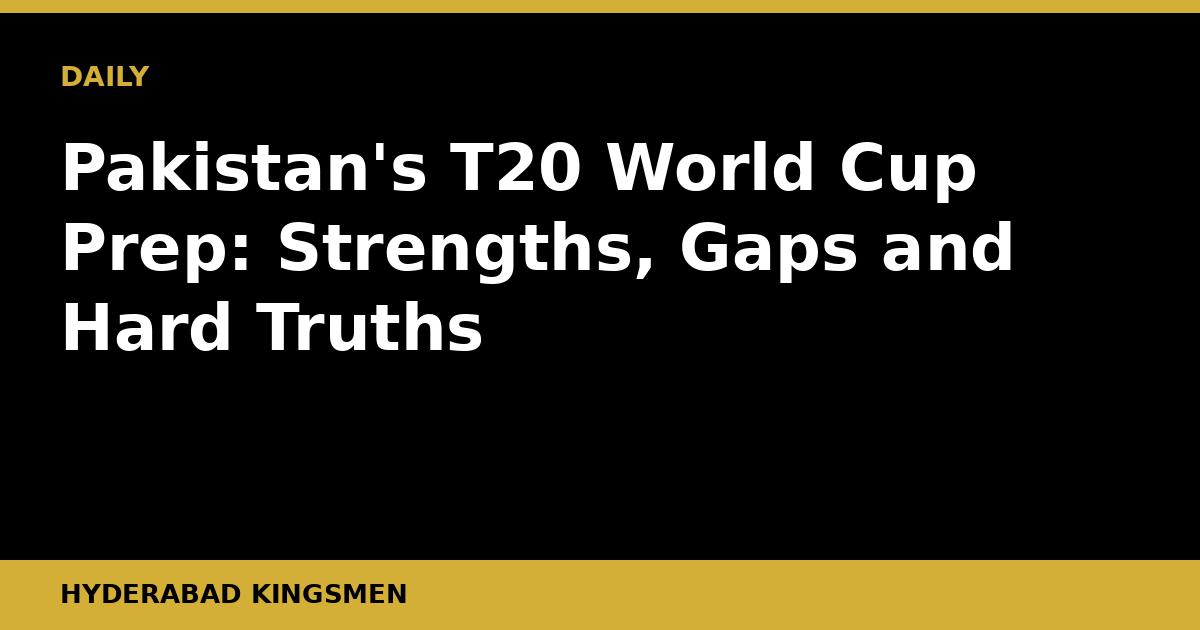
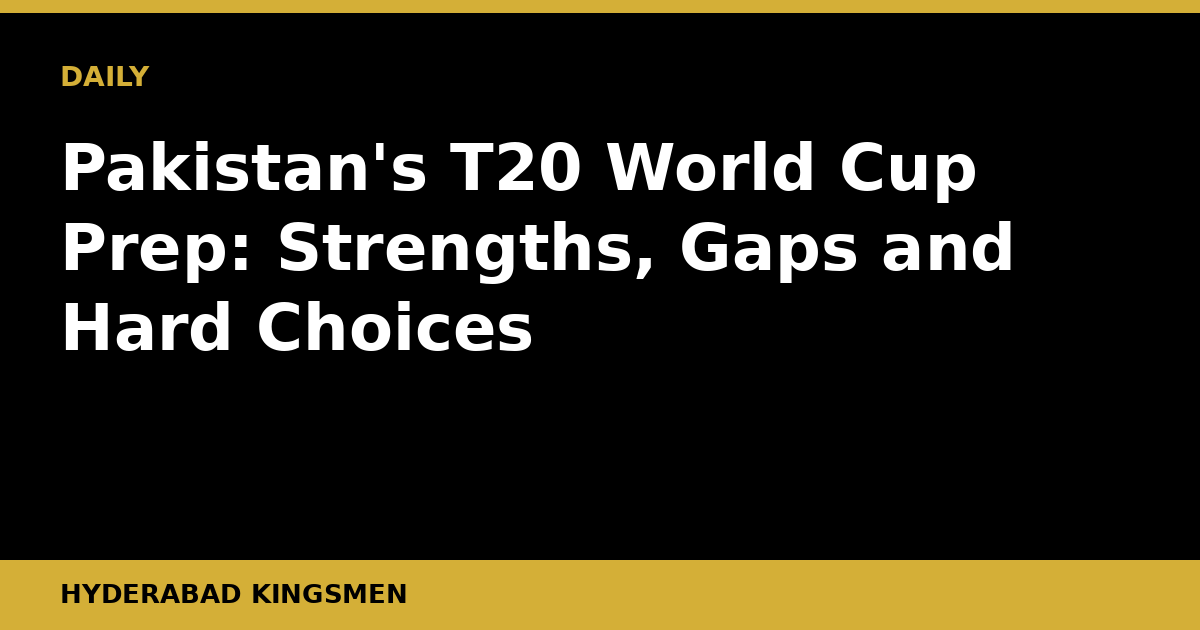
Daily post 2026-10-03

Changed region(s): [[0.2158, 0.4825, 0.4625, 0.573]]

diff --git a/content/posts/pakistan-t20-world-cup-squad-strengths-weaknesses.md b/content/posts/pakistan-t20-world-cup-squad-strengths-weaknesses.md
@@ -1,55 +1,53 @@
 ---
-title: "Pakistan's T20 World Cup Prep: Strengths, Gaps and Hard Truths"
+title: "Pakistan's T20 World Cup Prep: Strengths, Gaps and Hard Choices"
 slug: "pakistan-t20-world-cup-squad-strengths-weaknesses"
-date: "2026-07-23T04:11:13+05:00"
+date: "2026-10-03T05:57:17+05:00"
 draft: false
-description: "Pakistan's T20 World Cup preparations are underway, but real questions remain about batting depth, death bowling and strategic clarity. Here is an honest assessment."
+description: "Pakistan's T20 World Cup preparations are underway but serious questions remain about the batting middle order, the death bowling unit, and whether the selectors have the nerve to make difficult calls."
 banner: "/banners/pakistan-t20-world-cup-squad-strengths-weaknesses.png"
 kicker: "ANALYSIS"
 author: "Hyderabad Kingsmen"
 translationKey: "pakistan-t20-world-cup-squad-strengths-weaknesses"
-tags: ["pakistan-cricket", "t20-world-cup", "babar-azam", "pakistan-squad-analysis", "pakistan-t20i", "shaheen-shah-afridi", "psl"]
+tags: ["pakistan-cricket", "t20-world-cup", "pakistan-t20", "babar-azam", "squad-analysis", "shaheen-shah-afridi", "psl"]
 categories: ["Analysis"]
 ---
 
-Pakistan's next T20 World Cup cycle has begun in earnest, and the national side carries genuine match-winning potential in certain departments. Yet honest analysis reveals structural problems that could cost them when it matters most. The selectors and team management have decisions to make, and they need to make them now, not in the week before a knockout game.
+Pakistan's T20 World Cup cycle is moving forward, but not without turbulence. The selectors are assembling pieces, the players are putting in shifts across PSL and domestic cricket, but the picture that emerges is one of genuine promise sitting uncomfortably alongside structural problems that have persisted for years.
 
-## The Angle: Talent Is Not the Problem
+## The Real Story: Same Old Questions, Shrinking Time
 
-Pakistan have never lacked talent. The problem, recurring across decades and formats, is translating that talent into a coherent, consistent team identity. The T20 format punishes hesitation and rewards clarity. Right now, Pakistan look like a side still working out who they are.
+Every World Cup preparation cycle for Pakistan follows a familiar script. Hopes are high early, promising performers emerge in the PSL, and then somewhere between domestic optimism and international execution, things unravel. The question now is whether this cycle breaks that pattern, or repeats it.
 
-Babar Azam's return to white-ball leadership after last year's turbulence adds a layer of complexity. He remains one of the most technically complete batters in the world, and his presence at the top of the order gives the side an anchor. But anchors in T20 cricket need to double as accelerators. The debate around Babar's strike rate in the powerplay is not going away, and Pakistan cannot afford to keep sidestepping it with selection loyalty.
+The honest answer is: it depends on which Pakistan shows up.
 
-## Strengths Worth Acknowledging
+## What Pakistan Has Going for It
 
-**The pace attack** is the clearest asset. Shaheen Shah Afridi, when fit and firing, is among the best new-ball operators in global T20 cricket. Naseem Shah brings genuine pace and has grown into the shortest format. Haris Rauf's death-over experience at the PSL and franchise level globally gives Pakistan a credible three-pronged seam attack, something not every top-eight side can claim.
+At the top of the order, Pakistan remain formidable. Babar Azam's form may have drawn criticism in recent months for a perceived lack of aggression in T20 cricket, but his ability to anchor an innings and construct a total is still among the best in the world. Mohammad Rizwan continues to be one of the most consistent run-scorers in T20 internationals globally, and the two together provide a foundation most sides would envy.
 
-**Mohammad Rizwan** behind the stumps continues to be a player of serious value. His ability to rotate strike and manufacture runs in the middle overs, even against the best spin attacks, is underrated. Rizwan is not flashy, but he wins matches quietly.
+The bowling attack, at its best, is genuinely frightening. Shaheen Shah Afridi, when fully fit and in rhythm, is a match-winner in the powerplay and at death. Haris Rauf brings pace and courage in equal measure. Naseem Shah, still remarkably young, is developing into a complete fast bowling option. On pitches with even a hint of assistance, this trio can dismantle batting line-ups.
 
-**The spin department** has depth. Shadab Khan brings leg-spin and lower-order hitting. Abrar Ahmed is a genuine wicket-taker who has troubled top batters internationally. If selected and trusted, this pair can complement each other well across different phases.
+The PSL has also been doing its job as a talent conveyor. Spinners, lower-order hitting options, and young pace bowlers are emerging. The talent pool is not the problem.
 
-## Weaknesses That Cannot Be Ignored
+## The Weaknesses Pakistan Cannot Afford to Ignore
 
-**Batting depth beyond the top four** remains Pakistan's most persistent T20 vulnerability. When Babar, Rizwan, Fakhar Zaman and one other contributor fail together, the lower order too often collapses under pressure. There is no five or six who consistently wins matches from tricky positions. The PSL offers a window to identify such a player, and selectors must be watching closely.
+The middle order remains Pakistan's most stubborn structural problem. The position between numbers four and six has been a revolving door for years. Players are blooded, dropped, recalled, and discarded before they find their feet. Azam Khan offers explosive power but consistency at international level has eluded him. Iftikhar Ahmed is experienced but generates legitimate debate about whether his ceiling is high enough for a World Cup campaign.
 
-**Death bowling** is a concern. Shaheen and Rauf are proven, but an injury to either changes the equation dramatically. Pakistan's backup death options have been exposed in recent series. The side needs a fourth seamer capable of executing yorkers and cutters at the death, not just filling an XI slot.
+What Pakistan desperately needs is a finisher who can win games from position 40 for 4. They have not reliably had one in years, and the World Cup schedule punishes that absence brutally.
 
-**Fielding** continues to leak runs. In close T20 knockout games, a dropped catch or a misfield at the boundary can be the difference between a semifinal and an early flight home. Pakistan have improved marginally, but the standard is still well below the top sides in world cricket.
+Death bowling is the second serious concern. Shaheen can be expensive when his radar is off. Haris Rauf, for all his bravery, has had tournaments where opposition batters have clocked him. Pakistan need a proper death bowling backup plan, not just the hope that their frontline options fire on the same night.
 
-**Tactical flexibility** is perhaps the softest but most important gap. The best T20 teams adapt mid-game. Pakistan's in-game strategic adjustments have been reactive rather than proactive too many times in recent memory.
+The fielding, let us be honest, remains below the standard of the top four T20 sides in the world. Dropped catches and misfields have cost Pakistan in knockout cricket before. There is no evidence yet that this has been addressed as a systemic priority.
 
-## What It Means Going Forward
+## What the Selectors Must Decide
 
-The selection panel must use every bilateral series and PSL outing between now and the tournament as a genuine audition, not a loyalty exercise. Fixed combinations that protect reputation ahead of match-day performance will cost Pakistan later.
+The selection panel faces choices that require nerve. Does Babar Azam bat at number three, where he is most comfortable, or does Pakistan find a way to get a more explosive option at the top to maximise powerplay scoring? That conversation has been going on for three years. It needs a resolution, not another deferral.
 
-The opening partnership needs a firm decision. Babar and Rizwan at the top is a proven but contested combination. If they stay together, the team structure around them must account for the need to accelerate from ball one. If Pakistan experiment with alternatives, they must do it early enough to build actual partnerships, not familiarity on paper.
+The spin department also needs a clear pecking order. Shadab Khan's all-round value is obvious, but who backs him up? Abrar Ahmed has shown he can be a mystery weapon at international level, but his role and workload management need clarity before a major tournament, not during one.
 
-For the pace attack, managing Shaheen's workload through the PSL and early bilateral cricket is not optional. Bowling him into the ground before a World Cup would be a familiar and painful mistake.
+The selectors must also commit to a core group now and give those players a sustained run. Chopping and changing eleven men on the eve of a World Cup is a pattern Pakistan must resist.
 
 ## What to Watch Next
 
-The PSL is the immediate proving ground. Performances under pressure, particularly from middle-order batters and backup seamers, will tell the real story. Watch which players show the temperament to win matches in the final three overs, on both sides of the game.
+The upcoming T20I series against visiting sides before the World Cup will be the critical laboratory. Watch whether the middle order is given specific roles and allowed to grow into them. Watch whether the death bowling combinations are being tested deliberately rather than reactively. Watch Babar Azam's strike rate in the powerplay, because that number will tell you more about Pakistan's readiness than any press conference will.
 
-Bilateral T20I series in the lead-up to the tournament will also be critical for combination-building. The management cannot simply announce a squad two weeks before the World Cup and hope chemistry follows. That is not preparation. That is hope dressed as planning.
-
-Pakistan have the pieces. The question, as always, is whether the people in charge have the clarity and the courage to put them together properly.
+Pakistan have the raw material to win a T20 World Cup. They have had it for some time. The question, as always, is whether the systems around that raw material are strong enough to convert potential into silverware. The clock is ticking.
